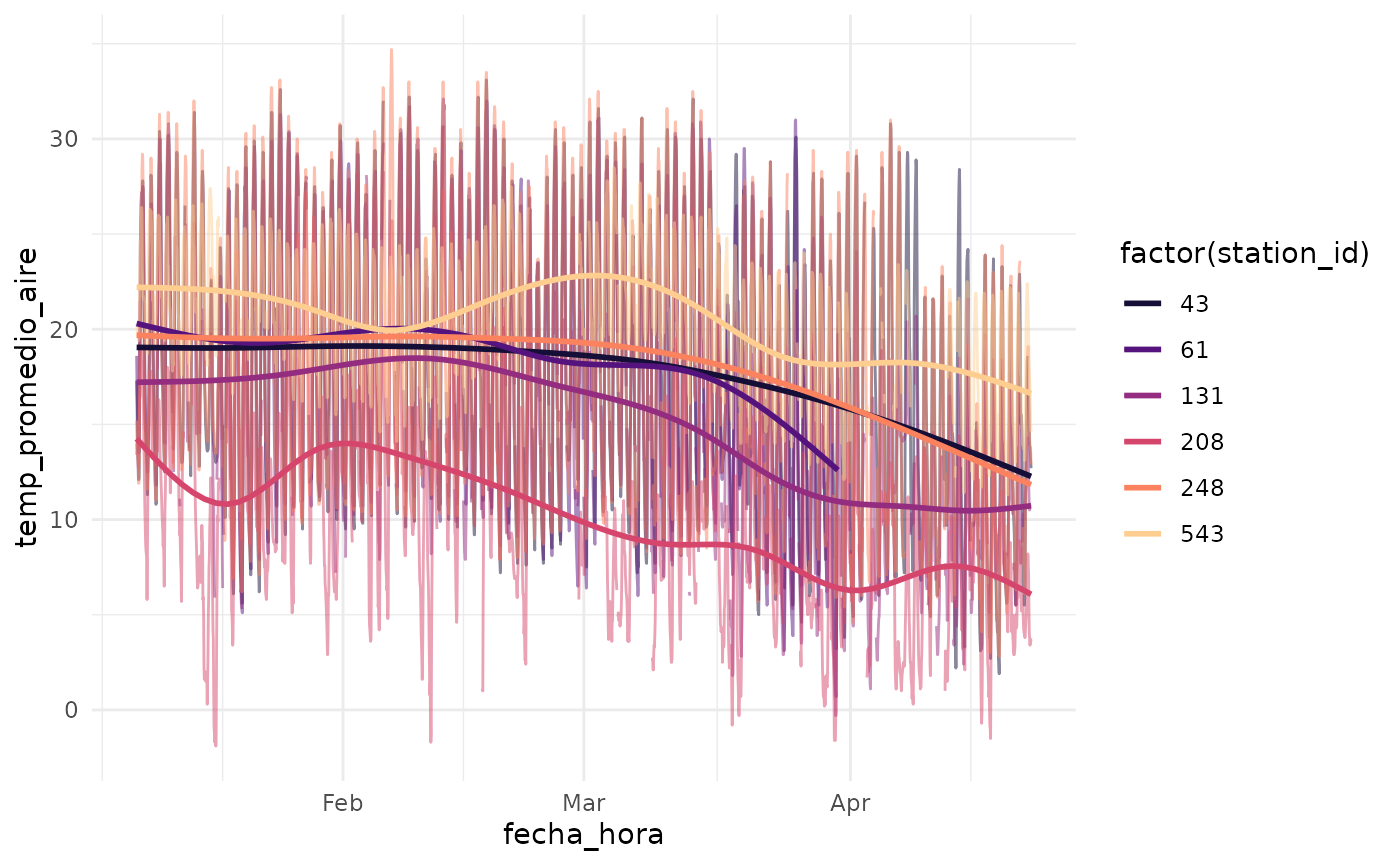
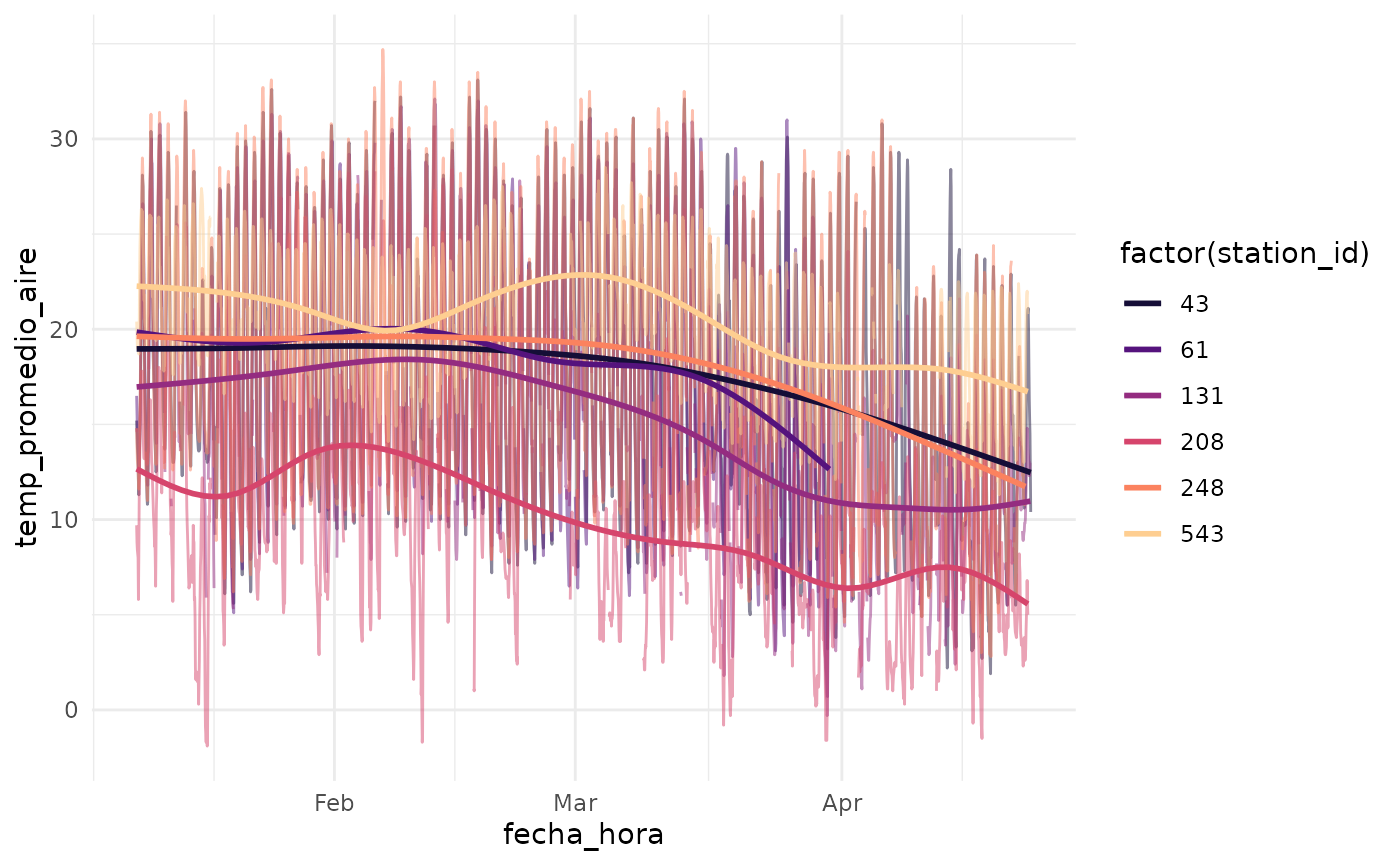
Built site for agrometR: 0.0.0.9000@050f6e4

diff --git a/articles/Introduction-to-agrometR.html b/articles/Introduction-to-agrometR.html
@@ -124,11 +124,11 @@
 
 <span class="va">date_time_start</span> <span class="op">&lt;-</span> <span class="fu"><a href="https://rdrr.io/r/base/format.html" class="external-link">format</a></span><span class="op">(</span><span class="fu"><a href="https://rdrr.io/r/base/Sys.time.html" class="external-link">Sys.Date</a></span><span class="op">(</span><span class="op">)</span> <span class="op">-</span> <span class="va">days_to_plot</span><span class="op">*</span><span class="fl">24</span><span class="op">*</span><span class="fl">60</span><span class="op">*</span><span class="fl">60</span><span class="op">/</span><span class="fl">100000</span>, <span class="st">"%Y-%m-%d"</span><span class="op">)</span>
 <span class="va">date_time_start</span>
-<span class="co">#&gt; [1] "2022-01-08"</span>
+<span class="co">#&gt; [1] "2022-01-09"</span>
 
 <span class="va">date_time_end</span> <span class="op">&lt;-</span> <span class="fu"><a href="https://rdrr.io/r/base/format.html" class="external-link">format</a></span><span class="op">(</span><span class="fu"><a href="https://rdrr.io/r/base/Sys.time.html" class="external-link">Sys.Date</a></span><span class="op">(</span><span class="op">)</span>, <span class="st">"%Y-%m-%d"</span><span class="op">)</span>
 <span class="va">date_time_end</span>
-<span class="co">#&gt; [1] "2022-04-22"</span>
+<span class="co">#&gt; [1] "2022-04-23"</span>
 
 <span class="va">data_stations</span> <span class="op">&lt;-</span> <span class="fu"><a href="../reference/get_agro_data.html">get_agro_data</a></span><span class="op">(</span>
   stations_id <span class="op">=</span> <span class="va">stations</span>, 
@@ -141,17 +141,17 @@
 <span class="co">#&gt; Rows: 14,976</span>
 <span class="co">#&gt; Columns: 13</span>
 <span class="co">#&gt; $ station_id            <span style="color: #949494; font-style: italic;">&lt;dbl&gt;</span> 43, 43, 43, 43, 43, 43, 43, 43, 43, 43, 43, 43, …</span>
-<span class="co">#&gt; $ fecha_hora            <span style="color: #949494; font-style: italic;">&lt;dttm&gt;</span> 2022-01-08 00:00:00, 2022-01-08 01:00:00, 2022-…</span>
-<span class="co">#&gt; $ temp_promedio_aire    <span style="color: #949494; font-style: italic;">&lt;dbl&gt;</span> 17.3, 16.2, 14.5, 13.4, 12.9, 12.1, 12.1, 12.2, …</span>
+<span class="co">#&gt; $ fecha_hora            <span style="color: #949494; font-style: italic;">&lt;dttm&gt;</span> 2022-01-09 00:00:00, 2022-01-09 01:00:00, 2022-…</span>
+<span class="co">#&gt; $ temp_promedio_aire    <span style="color: #949494; font-style: italic;">&lt;dbl&gt;</span> 15.2, 14.5, 13.8, 13.4, 12.8, 12.0, 11.3, 12.1, …</span>
 <span class="co">#&gt; $ precipitacion_horaria <span style="color: #949494; font-style: italic;">&lt;dbl&gt;</span> 0, 0, 0, 0, 0, 0, 0, 0, 0, 0, 0, 0, 0, 0, 0, 0, …</span>
-<span class="co">#&gt; $ humed_rel_promedio    <span style="color: #949494; font-style: italic;">&lt;dbl&gt;</span> 75.8, 78.8, 83.2, 86.2, 87.8, 88.2, 89.0, 90.0, …</span>
-<span class="co">#&gt; $ presion_atmosferica   <span style="color: #949494; font-style: italic;">&lt;dbl&gt;</span> 1011.4, 1011.1, 1010.6, 1010.0, 1009.6, 1009.7, …</span>
-<span class="co">#&gt; $ radiacion_solar_max   <span style="color: #949494; font-style: italic;">&lt;dbl&gt;</span> 0.0, 0.0, 0.0, 0.0, 0.0, 0.0, 1.7, 34.3, 270.9, …</span>
-<span class="co">#&gt; $ veloc_max_viento      <span style="color: #949494; font-style: italic;">&lt;dbl&gt;</span> 0.1, 0.1, 0.0, 0.0, 0.0, 0.0, 0.0, 0.0, 1.3, 1.1…</span>
-<span class="co">#&gt; $ temp_minima           <span style="color: #949494; font-style: italic;">&lt;dbl&gt;</span> 16.9, 15.6, 13.8, 13.2, 12.6, 11.9, 11.9, 11.8, …</span>
-<span class="co">#&gt; $ temp_maxima           <span style="color: #949494; font-style: italic;">&lt;dbl&gt;</span> 17.7, 16.6, 15.1, 13.6, 13.1, 12.4, 12.1, 13.0, …</span>
-<span class="co">#&gt; $ direccion_del_viento  <span style="color: #949494; font-style: italic;">&lt;dbl&gt;</span> 180, 180, 180, 180, 180, 180, 180, 180, 180, 193…</span>
-<span class="co">#&gt; $ grados_dia            <span style="color: #949494; font-style: italic;">&lt;dbl&gt;</span> 879.85, NA, NA, NA, NA, NA, NA, NA, NA, NA, NA, …</span>
+<span class="co">#&gt; $ humed_rel_promedio    <span style="color: #949494; font-style: italic;">&lt;dbl&gt;</span> 83.2, 85.5, 87.5, 88.5, 89.0, 89.5, 90.0, 91.8, …</span>
+<span class="co">#&gt; $ presion_atmosferica   <span style="color: #949494; font-style: italic;">&lt;dbl&gt;</span> 1015.0, 1015.1, 1015.0, 1014.8, 1015.2, 1015.5, …</span>
+<span class="co">#&gt; $ radiacion_solar_max   <span style="color: #949494; font-style: italic;">&lt;dbl&gt;</span> 0.0, 0.0, 0.0, 0.0, 0.0, 0.0, 0.6, 68.4, 95.6, 1…</span>
+<span class="co">#&gt; $ veloc_max_viento      <span style="color: #949494; font-style: italic;">&lt;dbl&gt;</span> 0.2, 0.1, 0.9, 0.0, 0.0, 0.0, 0.0, 0.4, 0.6, 0.7…</span>
+<span class="co">#&gt; $ temp_minima           <span style="color: #949494; font-style: italic;">&lt;dbl&gt;</span> 14.9, 14.2, 13.7, 13.3, 12.6, 11.7, 11.1, 11.2, …</span>
+<span class="co">#&gt; $ temp_maxima           <span style="color: #949494; font-style: italic;">&lt;dbl&gt;</span> 15.6, 14.8, 14.0, 13.6, 13.1, 12.3, 11.5, 13.0, …</span>
+<span class="co">#&gt; $ direccion_del_viento  <span style="color: #949494; font-style: italic;">&lt;dbl&gt;</span> 180, 180, 180, 180, 180, 180, 180, 180, 180, 181…</span>
+<span class="co">#&gt; $ grados_dia            <span style="color: #949494; font-style: italic;">&lt;dbl&gt;</span> 889.8, NA, NA, NA, NA, NA, NA, NA, NA, NA, NA, N…</span>
 <span class="co">#&gt; $ horas_frio            <span style="color: #949494; font-style: italic;">&lt;lgl&gt;</span> NA, NA, NA, NA, NA, NA, NA, NA, NA, NA, NA, NA, …</span>
 
 <span class="va">data_stations</span> |&gt; 
@@ -180,16 +180,16 @@
 
 <span class="va">p</span>
 <span class="co">#&gt; `geom_smooth()` using method = 'gam' and formula 'y ~ s(x, bs = "cs")'</span>
-<span class="co">#&gt; Warning: Removed 2944 rows containing non-finite values (stat_smooth).</span>
-<span class="co">#&gt; Warning: Removed 539 row(s) containing missing values (geom_path).</span></code></pre></div>
+<span class="co">#&gt; Warning: Removed 2988 rows containing non-finite values (stat_smooth).</span>
+<span class="co">#&gt; Warning: Removed 600 row(s) containing missing values (geom_path).</span></code></pre></div>
 <p><img src="Introduction-to-agrometR_files/figure-html/unnamed-chunk-4-1.png" width="700"></p>
 <div class="sourceCode" id="cb5"><pre class="downlit sourceCode r">
 <code class="sourceCode R">
 <span class="va">p</span> <span class="op">+</span>
   <span class="fu"><a href="https://ggplot2.tidyverse.org/reference/facet_wrap.html" class="external-link">facet_wrap</a></span><span class="op">(</span><span class="fu"><a href="https://ggplot2.tidyverse.org/reference/vars.html" class="external-link">vars</a></span><span class="op">(</span><span class="va">station_id</span><span class="op">)</span><span class="op">)</span>
 <span class="co">#&gt; `geom_smooth()` using method = 'gam' and formula 'y ~ s(x, bs = "cs")'</span>
-<span class="co">#&gt; Warning: Removed 2944 rows containing non-finite values (stat_smooth).</span>
-<span class="co">#&gt; Removed 539 row(s) containing missing values (geom_path).</span></code></pre></div>
+<span class="co">#&gt; Warning: Removed 2988 rows containing non-finite values (stat_smooth).</span>
+<span class="co">#&gt; Removed 600 row(s) containing missing values (geom_path).</span></code></pre></div>
 <p><img src="Introduction-to-agrometR_files/figure-html/unnamed-chunk-4-2.png" width="700"></p>
 </div>
 <div class="section level2">
@@ -216,9 +216,9 @@
 <span class="co">#&gt; Rows: 630</span>
 <span class="co">#&gt; Columns: 5</span>
 <span class="co">#&gt; $ station_id            <span style="color: #949494; font-style: italic;">&lt;dbl&gt;</span> 43, 43, 43, 43, 43, 43, 43, 43, 43, 43, 43, 43, …</span>
-<span class="co">#&gt; $ fecha_hora            <span style="color: #949494; font-style: italic;">&lt;dttm&gt;</span> 2022-01-08, 2022-01-09, 2022-01-10, 2022-01-11,…</span>
-<span class="co">#&gt; $ temp_promedio_aire    <span style="color: #949494; font-style: italic;">&lt;dbl&gt;</span> 19.61250, 18.57500, 19.83750, 21.44167, 20.80000…</span>
-<span class="co">#&gt; $ humed_rel_promedio    <span style="color: #949494; font-style: italic;">&lt;dbl&gt;</span> 69.16250, 72.80417, 67.96250, 66.45417, 70.64167…</span>
+<span class="co">#&gt; $ fecha_hora            <span style="color: #949494; font-style: italic;">&lt;dttm&gt;</span> 2022-01-09, 2022-01-10, 2022-01-11, 2022-01-12,…</span>
+<span class="co">#&gt; $ temp_promedio_aire    <span style="color: #949494; font-style: italic;">&lt;dbl&gt;</span> 18.57500, 19.83750, 21.44167, 20.80000, 16.77500…</span>
+<span class="co">#&gt; $ humed_rel_promedio    <span style="color: #949494; font-style: italic;">&lt;dbl&gt;</span> 72.80417, 67.96250, 66.45417, 70.64167, 82.05000…</span>
 <span class="co">#&gt; $ precipitacion_horaria <span style="color: #949494; font-style: italic;">&lt;dbl&gt;</span> 0.0, 0.0, 0.0, 0.0, 0.0, 0.0, 0.0, 0.0, 0.0, 0.0…</span>
   
 
@@ -229,8 +229,8 @@
   <span class="fu"><a href="https://ggplot2.tidyverse.org/reference/ggtheme.html" class="external-link">theme_minimal</a></span><span class="op">(</span><span class="op">)</span> <span class="op">+</span>
   <span class="fu"><a href="https://ggplot2.tidyverse.org/reference/facet_wrap.html" class="external-link">facet_wrap</a></span><span class="op">(</span><span class="fu"><a href="https://ggplot2.tidyverse.org/reference/vars.html" class="external-link">vars</a></span><span class="op">(</span><span class="va">station_id</span><span class="op">)</span><span class="op">)</span>
 <span class="co">#&gt; `geom_smooth()` using method = 'gam' and formula 'y ~ s(x, bs = "cs")'</span>
-<span class="co">#&gt; Warning: Removed 2944 rows containing non-finite values (stat_smooth).</span>
-<span class="co">#&gt; Warning: Removed 23 row(s) containing missing values (geom_path).</span></code></pre></div>
+<span class="co">#&gt; Warning: Removed 2988 rows containing non-finite values (stat_smooth).</span>
+<span class="co">#&gt; Warning: Removed 29 row(s) containing missing values (geom_path).</span></code></pre></div>
 <p><img src="Introduction-to-agrometR_files/figure-html/unnamed-chunk-5-1.png" width="700"></p>
 </div>
   </main><aside class="col-md-3"><nav id="toc"><h2>On this page</h2>
